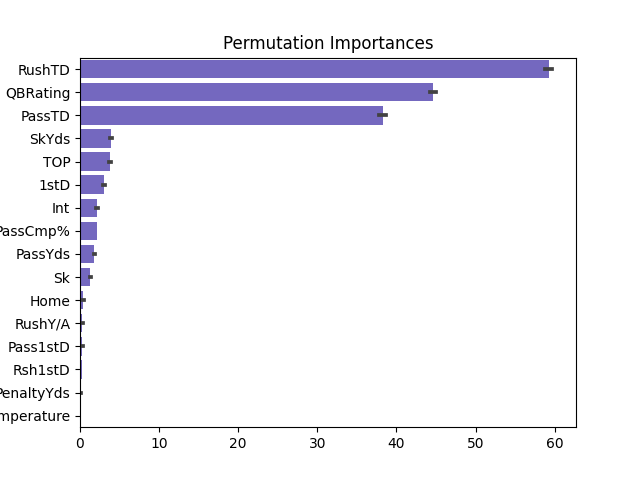
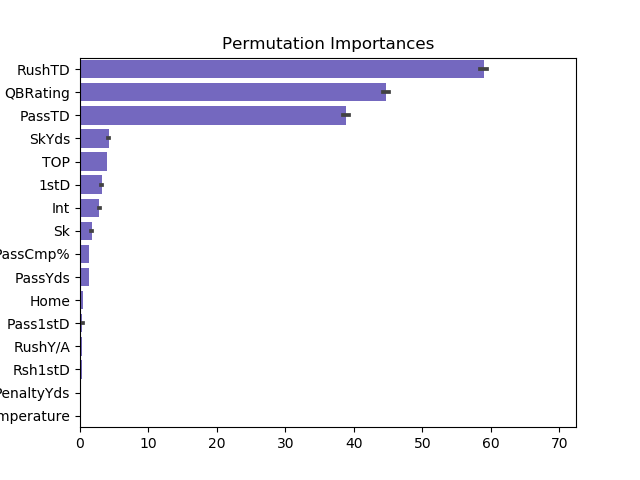
changes

diff --git a/src/model_MLP.py b/src/model_MLP.py
@@ -77,18 +77,19 @@ def importance(clf, X, y, cn):
 
 def train_nn(X_train, X_test, Y_train, y_test, cn):
 
-    x_train, y_test, y_train,y_valid = train_test_split(X_train, Y_train, test_size=0.2)
 
 
-    model = MLPRegressor(activation="logistic", solver="adam", early_stopping=False, 
-    learning_rate="adaptive", max_iter=300,alpha=0.01,hidden_layer_sizes = (32,64,64,128))
-    inverse = False
+    model = MLPRegressor(activation="logistic", solver="adam", early_stopping=True, validation_fraction = 0.2,
+    learning_rate="adaptive", max_iter=200,alpha=0.001,hidden_layer_sizes = (32,64,64,128),random_state = 9999)
  
-    model.fit(x_train, y_train)
+    model.fit(X_train, Y_train)
 
     print("Training Set MSE: ", model.loss_)
     
-    
+    plt.plot(model.loss_curve_)
+    plt.xlabel("epoch")
+    plt.ylabel("current loss")
+    plt.savefig("./src/plots/training_losscurve.png")
     # param_grid = {"hidden_layer_sizes": [(5,10), (7, 5)], "alpha": [1e-3, 1e-4]}
 
     # clf = GridSearchCV(model, param_grid, scoring="neg_mean_squared_error", cv=5)
@@ -100,7 +101,7 @@ def train_nn(X_train, X_test, Y_train, y_test, cn):
     print("Test Set MAE: ", np.mean(np.abs((model.predict(X_test)) - np.array(y_test))))
 
     fig = importance(
-        model, X_train, np.array(y_train), cn
+        model, X_train, np.array(Y_train), cn
     )
     plt.savefig("./src/plots/Permutation_Importances.png")
 

diff --git a/run.py b/run.py
@@ -43,7 +43,7 @@ def main(targets):
     test = pd.read_csv("./src/test/test.csv")
     train = pd.read_csv("./src/final_data/train.csv")
 
-    nn = False
+    nn = True
     if nn:
         X_train, X_test, y_train, y_test, cn = get_data_ready_for_nn(train, test)
         mdl = train_nn(X_train, X_test, y_train, y_test, cn)
@@ -52,12 +52,12 @@ def main(targets):
 
     y_test_baseline, y_pred_baseline = build_model(train, test)
 
-    # superbowl_pred = pd.read_csv("./src/final_data/superbowls.csv").to_numpy()
-    # superbowl_pred = prediction_mdl.predict(superbowl_pred)
-    # print(superbowl_pred)
+    superbowl_pred = pd.read_csv("./src/final_data/superbowls.csv").to_numpy()
+    superbowl_pred = mdl.predict(superbowl_pred)
+    print(superbowl_pred)
 
     # Post-prediction inference
-    postprediction_inference(X_test, y_test, prediction_mdl, y_test_baseline, y_pred_baseline)
+    #postprediction_inference(X_test, y_test, prediction_mdl, y_test_baseline, y_pred_baseline)
 
 
 if __name__ == '__main__':
